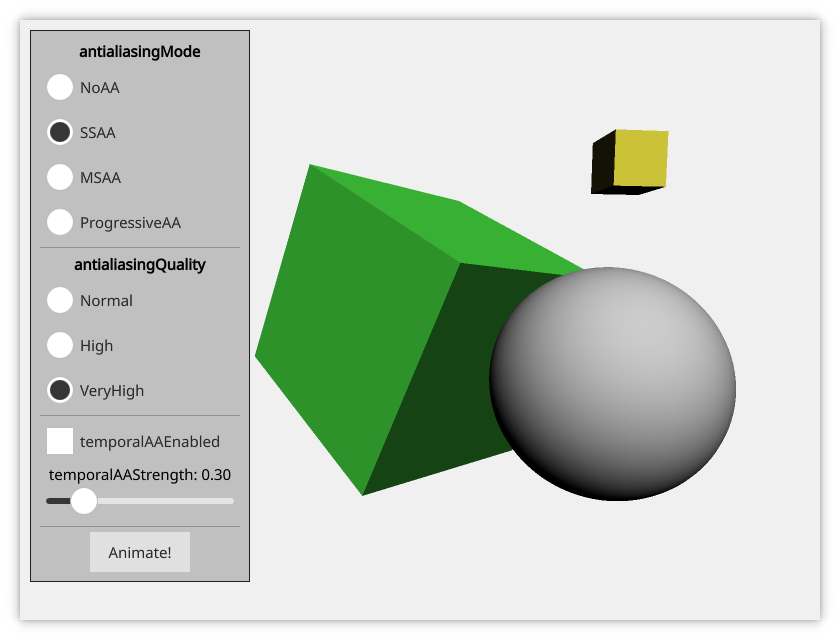
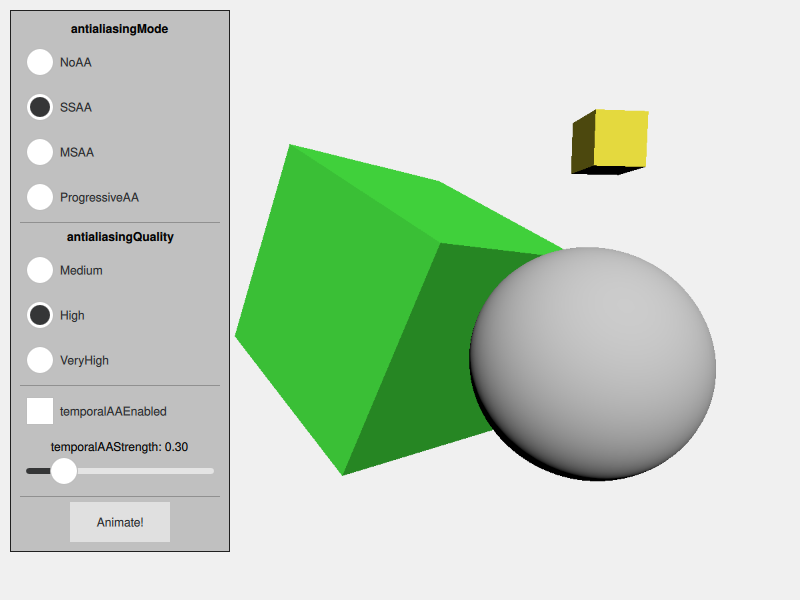
doc: improve antialiasing example
- Fix broken links
- Use Medium instead of Normal
- Update image
- Link to asset conditioning

Changed region(s): [[0.0, 0.0, 0.9062, 0.93], [0.0312, 0.96, 0.9688, 0.99], [0.6875, 0.18, 0.8125, 0.33]]

diff --git a/examples/quick3d/antialiasing/main.qml b/examples/quick3d/antialiasing/main.qml
@@ -195,7 +195,7 @@ Window {
             id: antialiasingQualityColumn
             RadioButton {
                 id: qualityButton1
-                text: qsTr("Normal")
+                text: qsTr("Medium")
             }
             RadioButton {
                 id: qualityButton2
